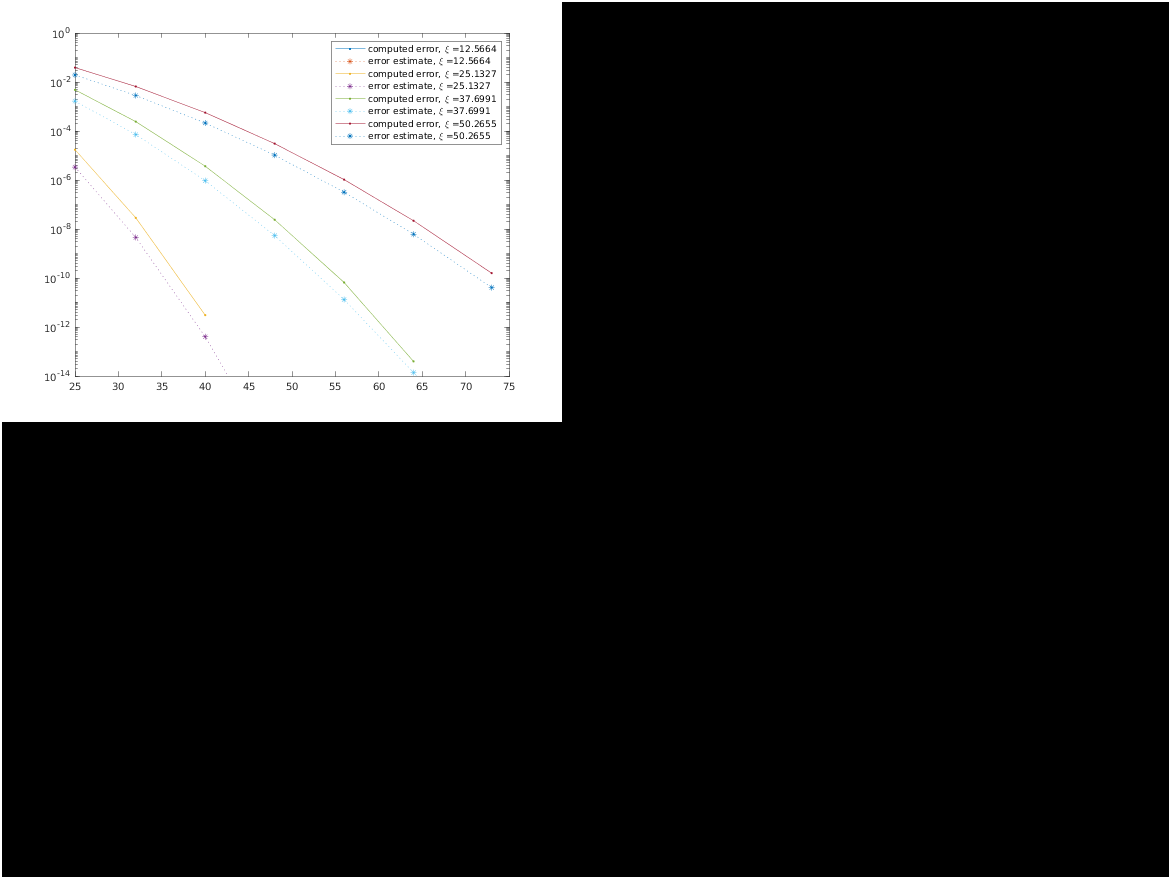
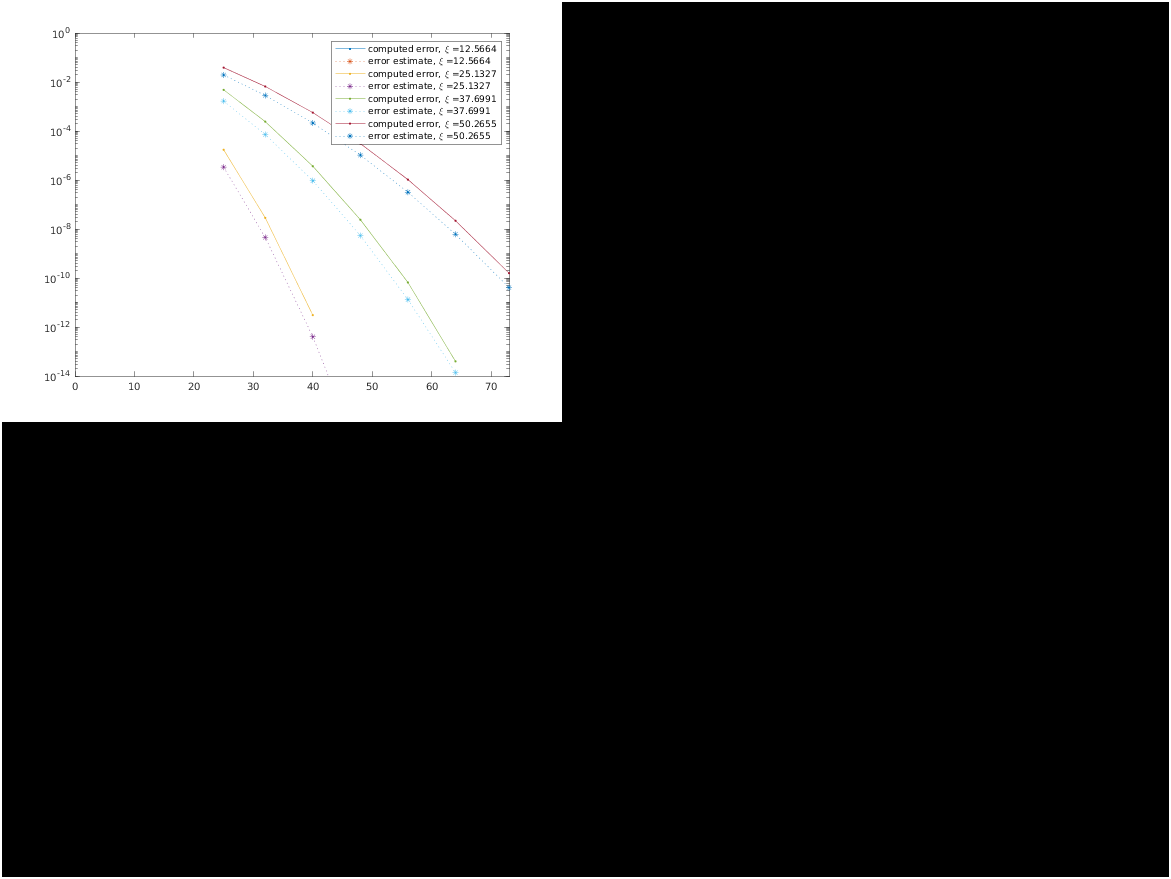
imgs

diff --git a/SE_Stokes_run/SE3P_Stokes/param_select.m b/SE_Stokes_run/SE3P_Stokes/param_select.m
@@ -109,6 +109,7 @@ for xi = xx
     %str = [str, strcat('second estimate, \xi =', num2str(xi))];
 end
 ylim([10^-14,1])
+xlim([0,73])
 legend(str{:},'Location','North East')
 
 
